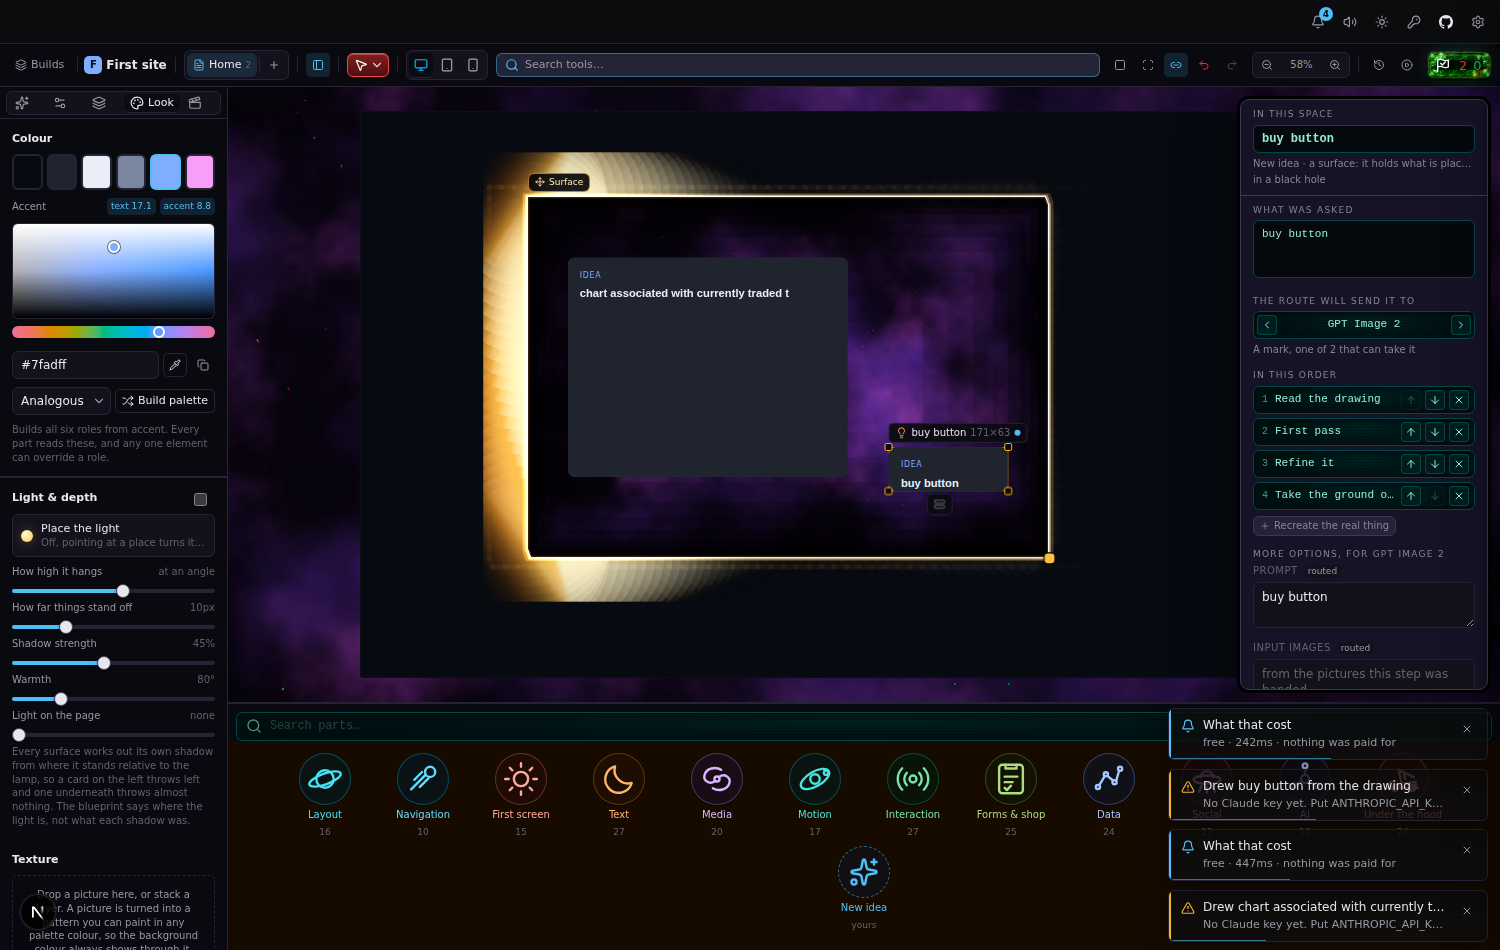
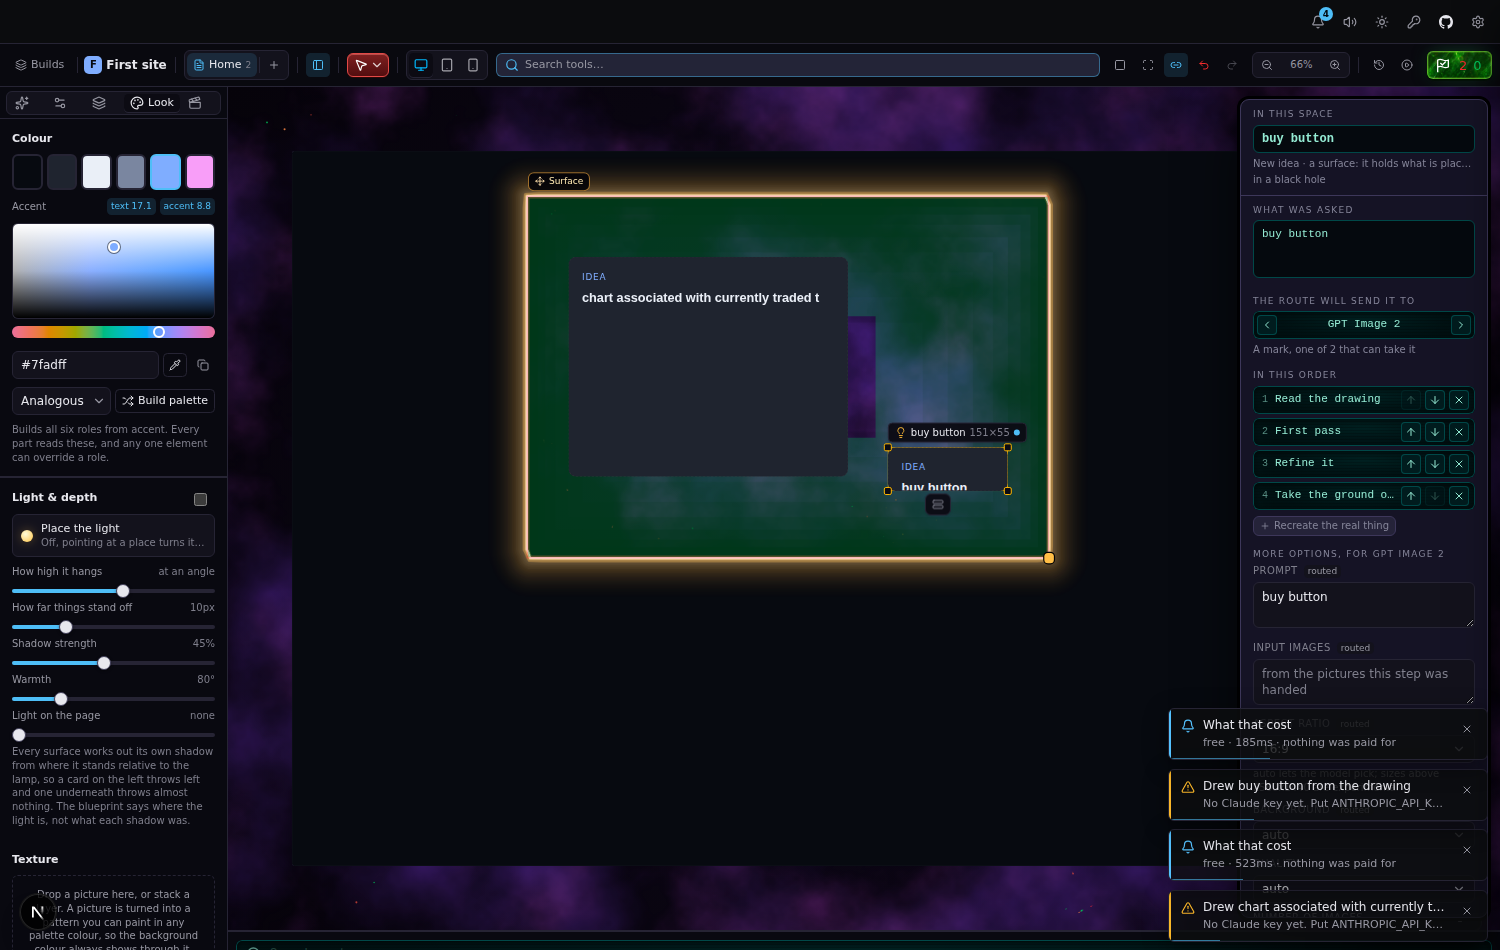
A surface forms where it can be watched, on the timeline's own bands
The driver's numbers were written on the space's host and nothing in
the space read them, so a surface went from asked-for to made with
nothing between. It forms on euler's bands now, drawn on the boundary
rather than a box: while the vine arrives nothing but the hole; then
the rim traced round the line in the process's red; then the green
closing in from the line to the middle of the area, boundary first and
the middle filling after; then thinning to the surface as the parts
land. The driver steps as the jobs step, with a running job counting
for the step it is on, and what is shown eases toward it at a pace a
person can follow, and stays until it has caught up rather than
vanishing the moment the last job lands on a fast road.

The create-flow check records what was drawn while it formed. The
create-space ground read takes the ground by its colour rather than a
brightness that depends on how thick the cloud is under the sample.

Claude-Session: https://claude.ai/code/session_011dxs3jh1JLZT6UEd7hCDPr

diff --git a/src/features/studio/SpaceLayer.tsx b/src/features/studio/SpaceLayer.tsx
@@ -33,7 +33,8 @@ import { Box as BoxIcon, Circle, Sparkles } from "lucide-react";
 import { play } from "@/core/audio/engine";
 import { moltenClass, moltenSeed } from "@/core/ui/molten";
 import { VOID } from "@/core/ui/void";
-import { formVars } from "./formation";
+import { formVars, progressOf, stageOf, within } from "./formation";
+import { PROCESS } from "./threads";
 import { HALO, paintHoleAlong, paintHorizonShadowAlong } from "./blackHole";
 import { useGround } from "./ground";
 import { boundaryBox, boundaryPath, centroid, consumed, CONSUME_MS, grownBoundary, isBoundary, isMade, openOf, spaceBox, spaceOf, spaceOfDrawing, type Space } from "./space";
@@ -254,6 +255,15 @@ function SpaceMark({ space, zoom }: { space: Space; zoom: number }) {
   const [mx, my] = React.useMemo(() => centroid(local), [local]);
   const made = isMade(space);
   const form = space.form?.p ?? 1;
+  /*
+   * The forming is shown until what is shown has caught up with the work,
+   * not until the work is over: the last jobs land in a moment on a fast
+   * road, and the driver goes to one, and the sheen closing in from the
+   * line would never be seen. So the mark stays forming until the drawn
+   * value has eased all the way, and only then is the surface simply there.
+   */
+  const [settled, setSettled] = React.useState(!space.form || form >= 1);
+  React.useEffect(() => { if (space.form && form < 1) setSettled(false); }, [space.form, form]);
   return (
     <div
       data-space={space.id}
@@ -275,9 +285,74 @@ function SpaceMark({ space, zoom }: { space: Space; zoom: number }) {
       }}
     >
       <Hole space={space} local={local} pad={pad} box={box} zoom={zoom} form={space.form ? form : 1} />
+      {space.form && !settled ? <Forming local={local} at={form} zoom={zoom} onDone={() => setSettled(true)} /> : null}
       <FillKey space={space} zoom={zoom} at={[mx, my]} />
       {made ? <SurfaceHandles space={space} zoom={zoom} pad={pad} box={box} /> : null}
     </div>
+  );
+}
+
+/**
+ * The surface forming, on the timeline's own driver, so it can be watched.
+ *
+ * The same bands a card forms in (`FORM`), read with the same `within`,
+ * drawn on a boundary rather than a box: while the vine arrives nothing
+ * shows but the hole; then the rim is traced round the line; then a sheen
+ * closes in from the line to the middle of the area, which is the
+ * boundary first and the middle filling after; then the sheen becomes the
+ * surface and fades as the parts land. The driver's value steps as the
+ * jobs step, so what is shown eases toward it rather than jumping, and a
+ * person sees it move.
+ */
+/** How fast the shown forming may move, in whole surfaces a second: about three seconds from nothing to made. */
+const FORM_PACE = 0.34;
+
+function Forming({ local, at, zoom, onDone }: { local: SketchPoint[]; at: number; zoom: number; onDone: () => void }) {
+  const [shown, setShown] = React.useState(Math.min(at, QUEUED));
+  const done = React.useRef(onDone);
+  done.current = onDone;
+  React.useEffect(() => {
+    let raf = 0;
+    let last = performance.now();
+    const tick = (now: number) => {
+      // A frame's stamp can precede the clock read when the loop began: never a step backwards.
+      const dt = Math.max(0, Math.min(0.1, (now - last) / 1000));
+      last = now;
+      setShown((v) => {
+        if (v >= at) return v;
+        // No faster than a pace a person can follow: the whole way in three seconds.
+        const next = Math.min(at, v + dt * FORM_PACE);
+        return next;
+      });
+      raf = requestAnimationFrame(tick);
+    };
+    raf = requestAnimationFrame(tick);
+    return () => cancelAnimationFrame(raf);
+  }, [at]);
+  React.useEffect(() => { if (at >= 1 && shown >= 1) done.current(); }, [at, shown]);
+  const p = shown;
+  const rim = within(p, "rim");
+  const close = within(p, "close");
+  const surface = within(p, "surface");
+  const core = within(p, "core");
+  const outline = React.useMemo(() => boundaryPath(local), [local]);
+  // The sheen: the area between the line and the line shrunk toward the middle.
+  const inner = close > 0 ? boundaryPath(grownBoundary(local, 1 - close)) : null;
+  const stage = stageOf(p);
+  return (
+    <svg data-space-forming={stage} data-space-form-shown={String(Math.round(p * 100) / 100)} className="pointer-events-none absolute left-0 top-0 overflow-visible" width={1} height={1} aria-hidden>
+      {/* The rim, traced round the line as the work reaches it: in the
+          process's own red, because the ring under it is already lit and a
+          trace in the ring's colour is a trace nobody sees. */}
+      {rim > 0 && close < 1 ? (
+        <path d={outline} fill="none" pathLength={1} strokeDasharray="1" strokeDashoffset={1 - rim} stroke={PROCESS.open} strokeWidth={3 / zoom} strokeLinecap="round" opacity={1 - close} />
+      ) : null}
+      {/* The green closing in from the line to the middle, the cards' own
+          word for the work arriving, then thinning to the surface. */}
+      {inner ? (
+        <path d={`${outline} ${inner}`} fillRule="evenodd" fill={PROCESS.done} opacity={0.28 * (1 - surface) + 0.08 * surface * (1 - core)} />
+      ) : null}
+    </svg>
   );
 }
 
@@ -435,7 +510,7 @@ export function SpaceForming() {
       const jobs = jobsInSpace(queue, sp);
       const over = jobs.length > 0 && jobs.every((j) => j.status === "done" || j.status === "failed");
       if (over) { lockNow(sp.id); continue; }
-      useStudio.getState().formSpace(sp.id, formFromJobs(jobs, QUEUED));
+      useStudio.getState().formSpace(sp.id, formFromJobs(jobs, QUEUED, progressOf));
     }
   }, [queue, spaces]);
   return null;

diff --git a/src/features/studio/space.ts b/src/features/studio/space.ts
@@ -584,11 +584,21 @@ export function jobsInSpace<J extends { at: { x: number; y: number } | null; sta
  * has been asked for exists, which is euler's rule for a card and the same
  * rule here.
  */
-export function formFromJobs(jobs: readonly { status: string }[], queued: number): number {
+export function formFromJobs(
+  jobs: readonly { status: string; step?: string }[],
+  queued: number,
+  progress: (step: string | undefined) => number | null = () => null,
+): number {
   if (!jobs.length) return 1;
-  const done = jobs.filter((j) => j.status === "done" || j.status === "failed").length;
-  const running = jobs.filter((j) => j.status === "running").length;
-  return Math.max(queued, Math.min(1, (done + running * 0.5) / jobs.length));
+  let sum = 0;
+  for (const j of jobs) {
+    if (j.status === "done" || j.status === "failed") sum += 1;
+    // A job part-way through counts for the step it is on, read the way a
+    // card reads it (`progressOf`); half, when the step says nothing.
+    else if (j.status === "running") sum += Math.max(queued, Math.min(0.95, progress(j.step) ?? 0.5));
+    else sum += queued;
+  }
+  return Math.max(queued, Math.min(1, sum / jobs.length));
 }
 
 /* ------------------------------------------------------------------ */
